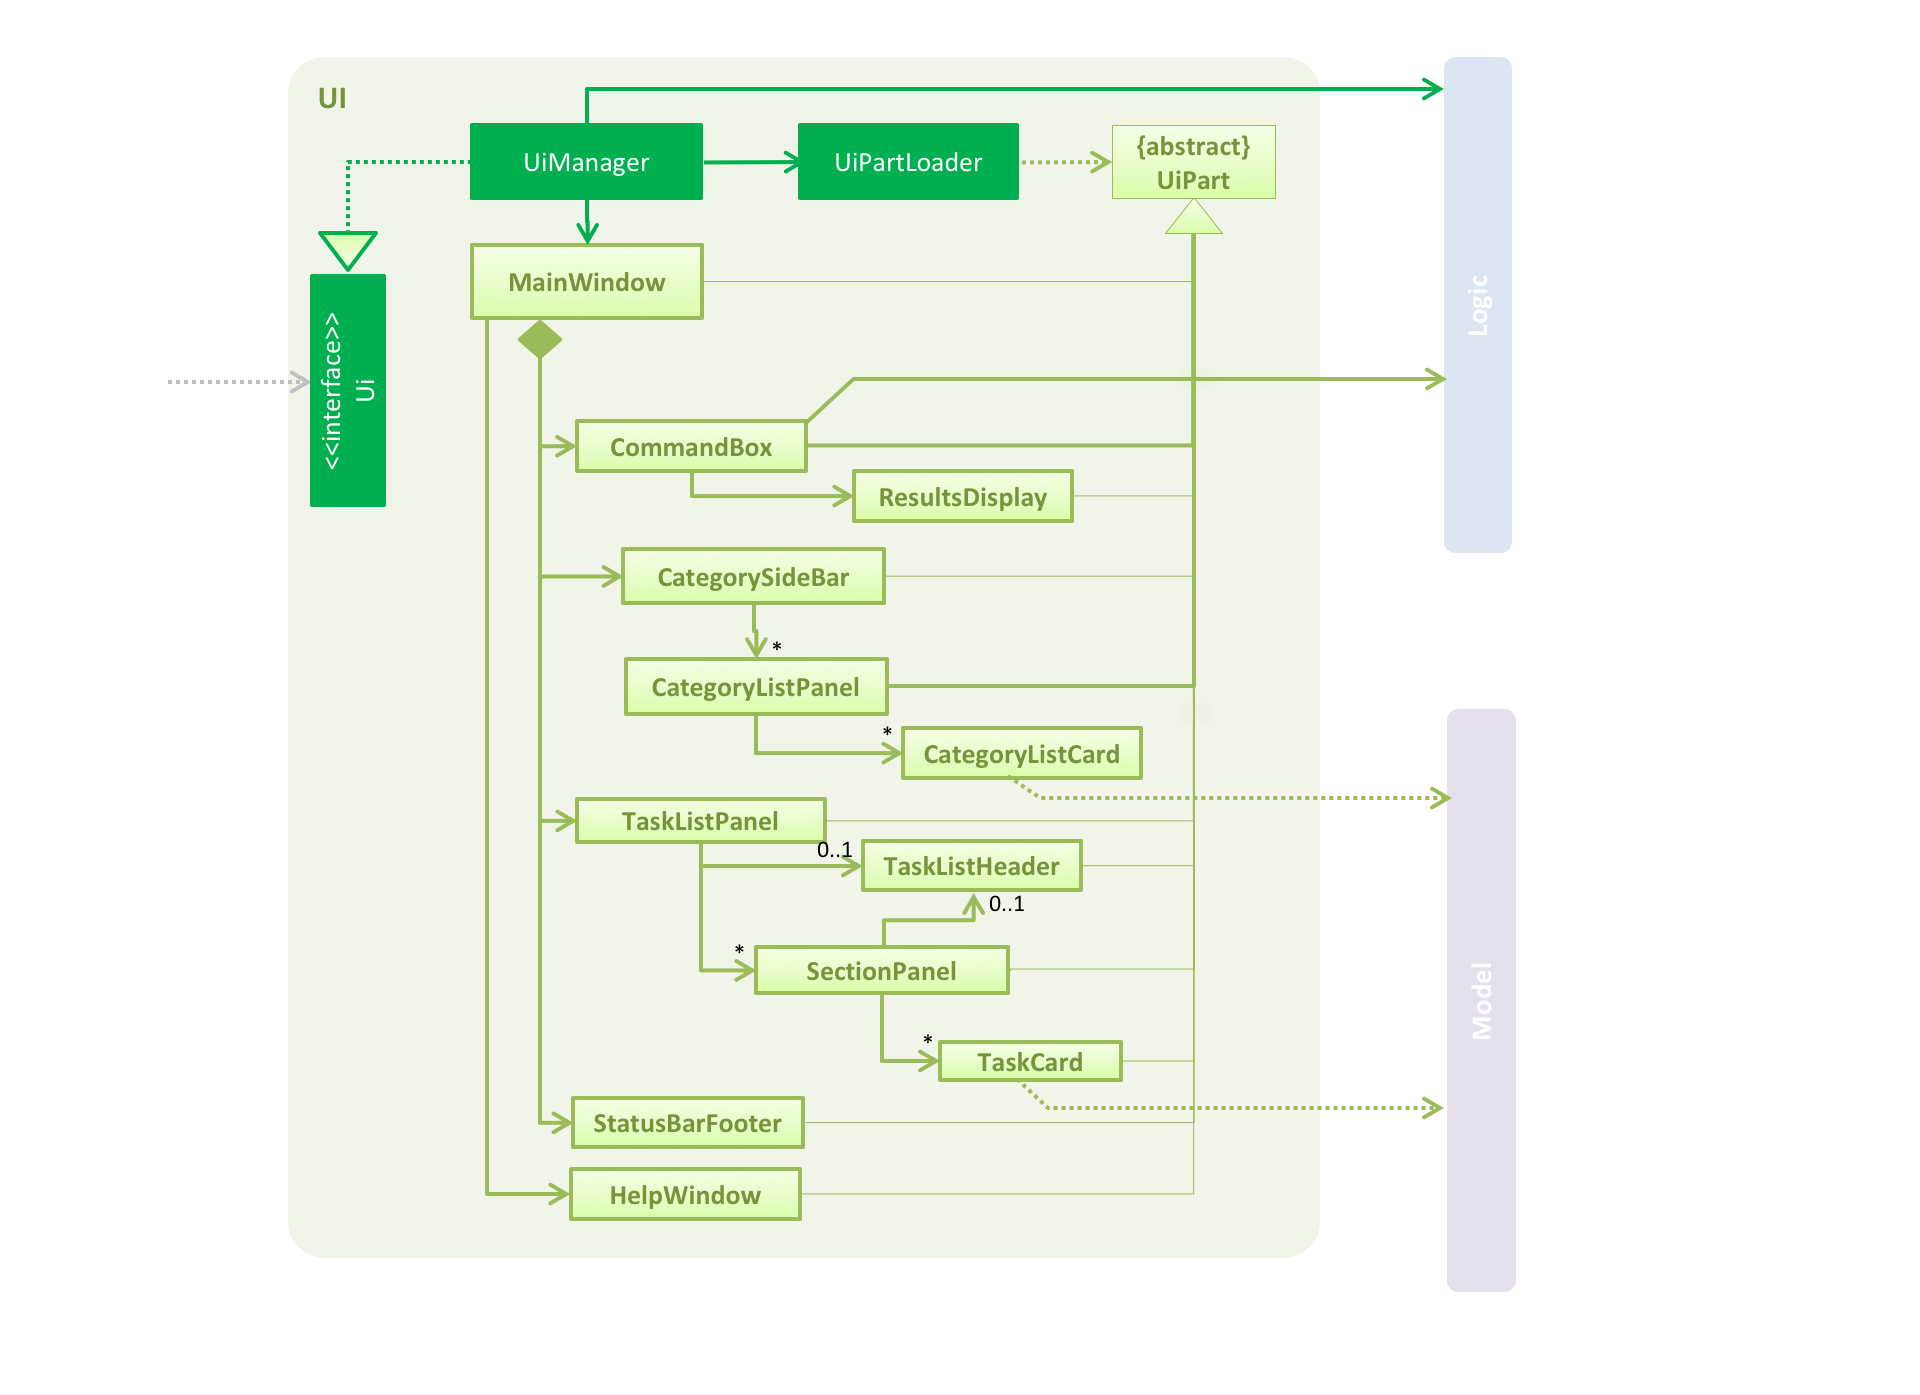
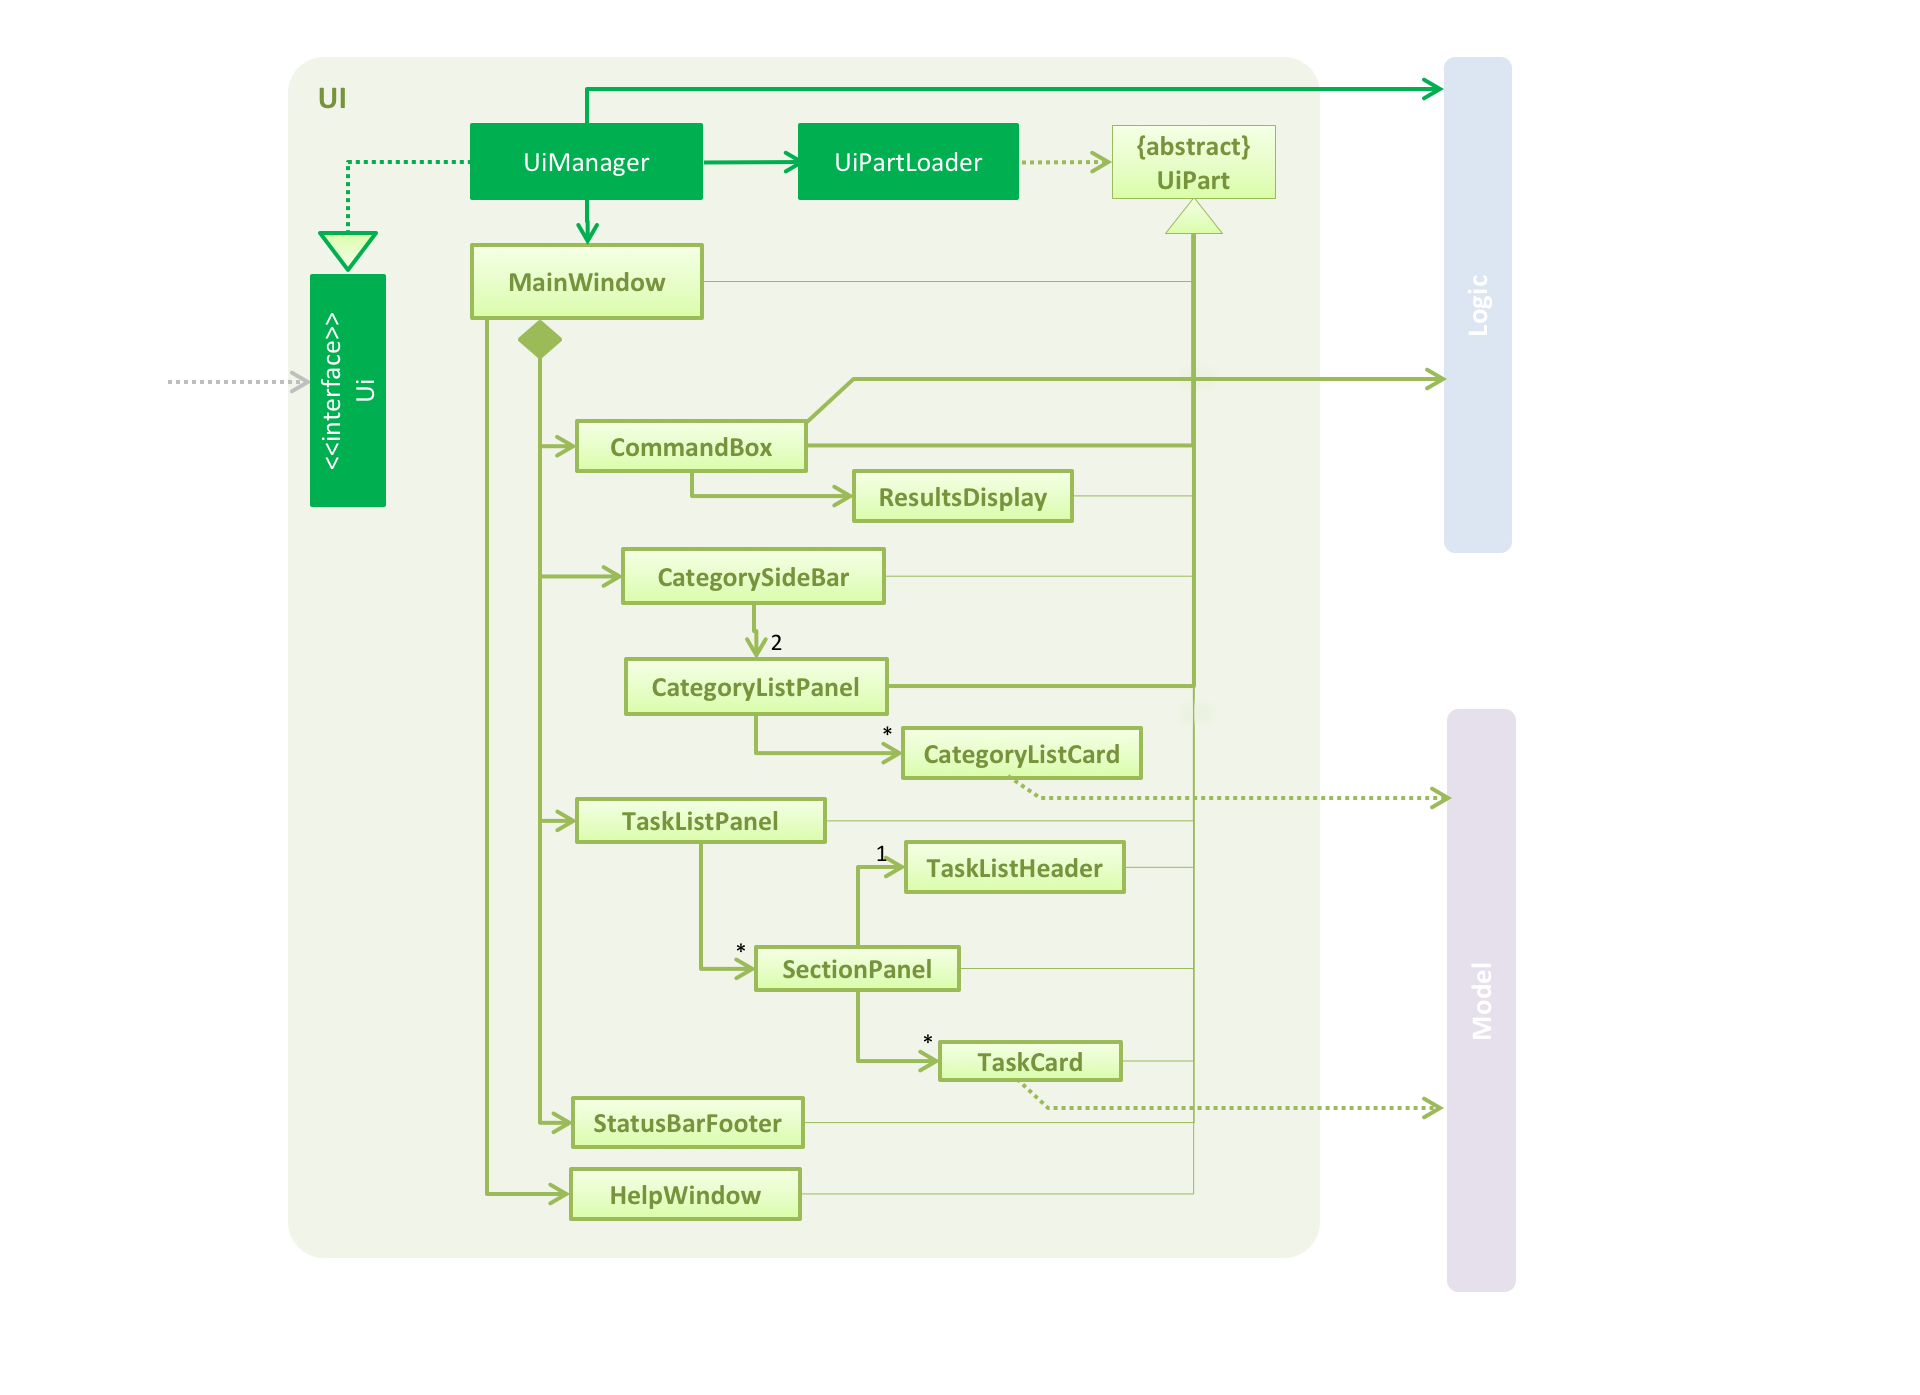
update UI diagram in DG

Changed region(s): [[0.375, 0.5857, 0.5938, 0.7706]]

diff --git a/src/main/java/seedu/doerList/ui/UiManager.java b/src/main/java/seedu/doerList/ui/UiManager.java
@@ -18,7 +18,7 @@ import seedu.doerList.commons.events.storage.DataSavingExceptionEvent;
 import seedu.doerList.commons.events.storage.StoragePathChangedEvent;
 import seedu.doerList.commons.events.ui.CategorySelectionChangedEvent;
 import seedu.doerList.commons.events.ui.JumpToCategoryEvent;
-import seedu.doerList.commons.events.ui.JumpToListRequestEvent;
+import seedu.doerList.commons.events.ui.JumpToIndexedTaskRequestEvent;
 import seedu.doerList.commons.events.ui.ShowHelpRequestEvent;
 import seedu.doerList.commons.events.ui.TaskPanelArrowKeyPressEvent;
 import seedu.doerList.commons.events.ui.TaskPanelSelectionChangedEvent;
@@ -123,7 +123,7 @@ public class UiManager extends ComponentManager implements Ui {
     
     //@@author A0147978E
     @Subscribe
-    private void handleJumpToListRequestEvent(JumpToListRequestEvent event) {
+    private void handleJumpToListRequestEvent(JumpToIndexedTaskRequestEvent event) {
         logger.info(LogsCenter.getEventHandlingLogMessage(event));
         mainWindow.getTaskListPanel().scrollTo(event.targetIndex + 1); // index is offset by 1
     }

diff --git a/src/main/java/seedu/doerList/logic/commands/ViewCommand.java b/src/main/java/seedu/doerList/logic/commands/ViewCommand.java
@@ -4,7 +4,7 @@ package seedu.doerList.logic.commands;
 import seedu.doerList.commons.core.EventsCenter;
 import seedu.doerList.commons.core.Messages;
 import seedu.doerList.commons.core.UnmodifiableObservableList;
-import seedu.doerList.commons.events.ui.JumpToListRequestEvent;
+import seedu.doerList.commons.events.ui.JumpToIndexedTaskRequestEvent;
 import seedu.doerList.model.task.ReadOnlyTask;
 import seedu.doerList.model.task.UniqueTaskList.TaskNotFoundException;
 import seedu.doerList.ui.TaskListPanel;
@@ -35,7 +35,7 @@ public class ViewCommand extends Command {
         
         try {
             ReadOnlyTask target = TaskListPanel.getDisplayedIndexInUI(targetIndex, lastShownList);
-            EventsCenter.getInstance().post(new JumpToListRequestEvent(targetIndex - 1));
+            EventsCenter.getInstance().post(new JumpToIndexedTaskRequestEvent(targetIndex - 1));
             return new CommandResult(String.format(MESSAGE_VIEW_TASK_SUCCESS, target));
         } catch (TaskNotFoundException e) {
             indicateAttemptToExecuteIncorrectCommand();

diff --git a/src/test/java/seedu/doerList/logic/LogicManagerTest.java b/src/test/java/seedu/doerList/logic/LogicManagerTest.java
@@ -26,7 +26,7 @@ import seedu.doerList.commons.core.Config;
 import seedu.doerList.commons.core.EventsCenter;
 import seedu.doerList.commons.core.Messages;
 import seedu.doerList.commons.events.model.DoerListChangedEvent;
-import seedu.doerList.commons.events.ui.JumpToListRequestEvent;
+import seedu.doerList.commons.events.ui.JumpToIndexedTaskRequestEvent;
 import seedu.doerList.commons.events.ui.ShowHelpRequestEvent;
 import seedu.doerList.commons.util.ConfigUtil;
 import seedu.doerList.commons.util.TimeUtil;
@@ -91,7 +91,7 @@ public class LogicManagerTest {
     }
 
     @Subscribe
-    private void handleJumpToListRequestEvent(JumpToListRequestEvent je) {
+    private void handleJumpToListRequestEvent(JumpToIndexedTaskRequestEvent je) {
         targetedJumpIndex = je.targetIndex;
     }
 

diff --git a/src/main/java/seedu/doerList/commons/events/ui/JumpToIndexedTaskRequestEvent.java b/src/main/java/seedu/doerList/commons/events/ui/JumpToIndexedTaskRequestEvent.java
@@ -6,11 +6,11 @@ import seedu.doerList.commons.events.BaseEvent;
 /**
  * Indicates a request to jump to the a task indicated by {@code targetIndex}
  */
-public class JumpToListRequestEvent extends BaseEvent {
+public class JumpToIndexedTaskRequestEvent extends BaseEvent {
 
     public final int targetIndex;
 
-    public JumpToListRequestEvent(int targetIndex) {
+    public JumpToIndexedTaskRequestEvent(int targetIndex) {
         this.targetIndex = targetIndex;
     }
 

diff --git a/docs/DeveloperGuide.md b/docs/DeveloperGuide.md
@@ -90,18 +90,21 @@ The sections below give more details of each component.
 
 <img src="images/UiClassDiagram.png" width="800"><br>
 
-**API** : [`Ui.java`](../src/main/java/seedu/address/ui/Ui.java)
+**API** : [`Ui.java`](../src/main/java/seedu/doerList/ui/Ui.java)
 
-The UI consists of a `MainWindow` that is made up of parts e.g.`CommandBox`, `ResultDisplay`, `PersonListPanel`, `StatusBarFooter`, `BrowserPanel` etc. All these, including the `MainWindow`, inherit from the abstract `UiPart` class and they can be loaded using the `UiPartLoader`.
+The UI consists of a `MainWindow` that is made up of parts e.g.`CommandBox`, `ResultDisplay`, `TaskListPanel`, `StatusBarFooter` etc. All these, including the `MainWindow`, inherit from the abstract `UiPart` class and they can be loaded using the `UiPartLoader`.
 
 The `UI` component uses JavaFx UI framework. The layout of these UI parts are defined in matching `.fxml` files that are in the `src/main/resources/view` folder.<br>
- For example, the layout of the [`MainWindow`](../src/main/java/seedu/address/ui/MainWindow.java) is specified in
+ For example, the layout of the [`MainWindow`](../src/main/java/seedu/doerList/ui/MainWindow.java) is specified in
  [`MainWindow.fxml`](../src/main/resources/view/MainWindow.fxml)
 
 The `UI` component,
+
 * Executes user commands using the `Logic` component.
 * Binds itself to some data in the `Model` so that the UI can auto-update when data in the `Model` change.
-* Responds to events raised from various parts of the application and updates the UI accordingly.
+* Responds to events raised from various parts of the application and updates the UI accordingly. For example, the diagram below shows how the `UI` reacts to the [`JumpToIndexedTaskRequestEvent`](../src/main/java/seedu/doerList/commons/events/ui/JumpToIndexedTaskRequestEvent.java) event. 
+<img src="images/Ui_scrollToEvent.png" width="800"><br>
+
 
 [//]: # (@@author)
 ### Logic component
